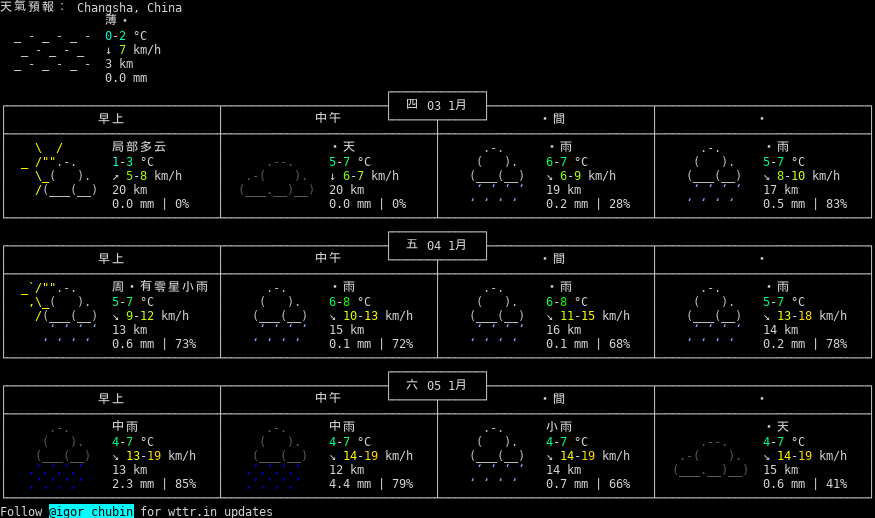
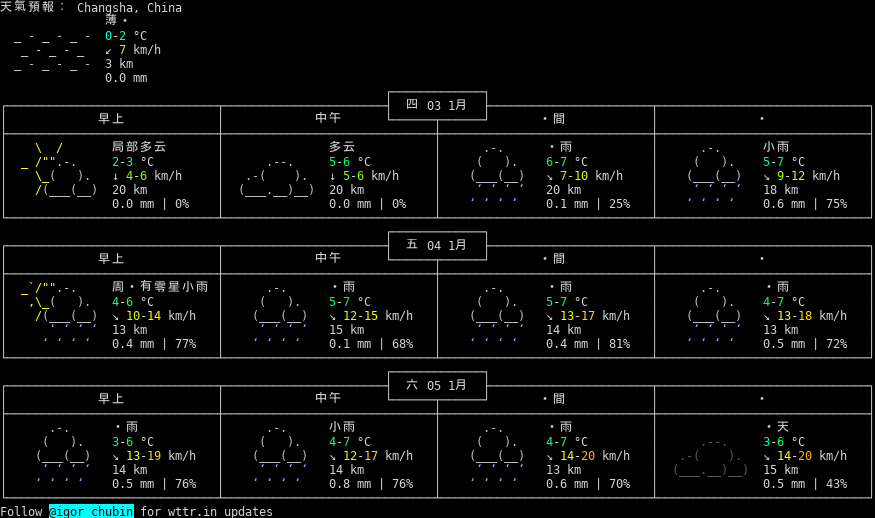
update Today's log:)

diff --git a/README.md b/README.md
@@ -4452,3 +4452,4 @@ My Shell_script learning note
 * 2019年01月03日 星期Thu AM 3:00 CST   天气: 2-4°C (Heiwajima, Japan)
 * 2019年01月03日 星期Thu AM 3:20 CST   天气: 2-4°C (Heiwajima, Japan)
 * 2019年01月03日 星期Thu AM 3:40 CST   天气: 2-4°C (Heiwajima, Japan)
+* 2019年01月03日 星期Thu AM 4:00 CST   天气: 1-3°C (Heiwajima, Japan)

diff --git a/weather.md b/weather.md
@@ -17637,3 +17637,7 @@
 
 ![](PNG/20190103.png)
 
+2019年 01月 03日
+
+![](PNG/20190103.png)
+
